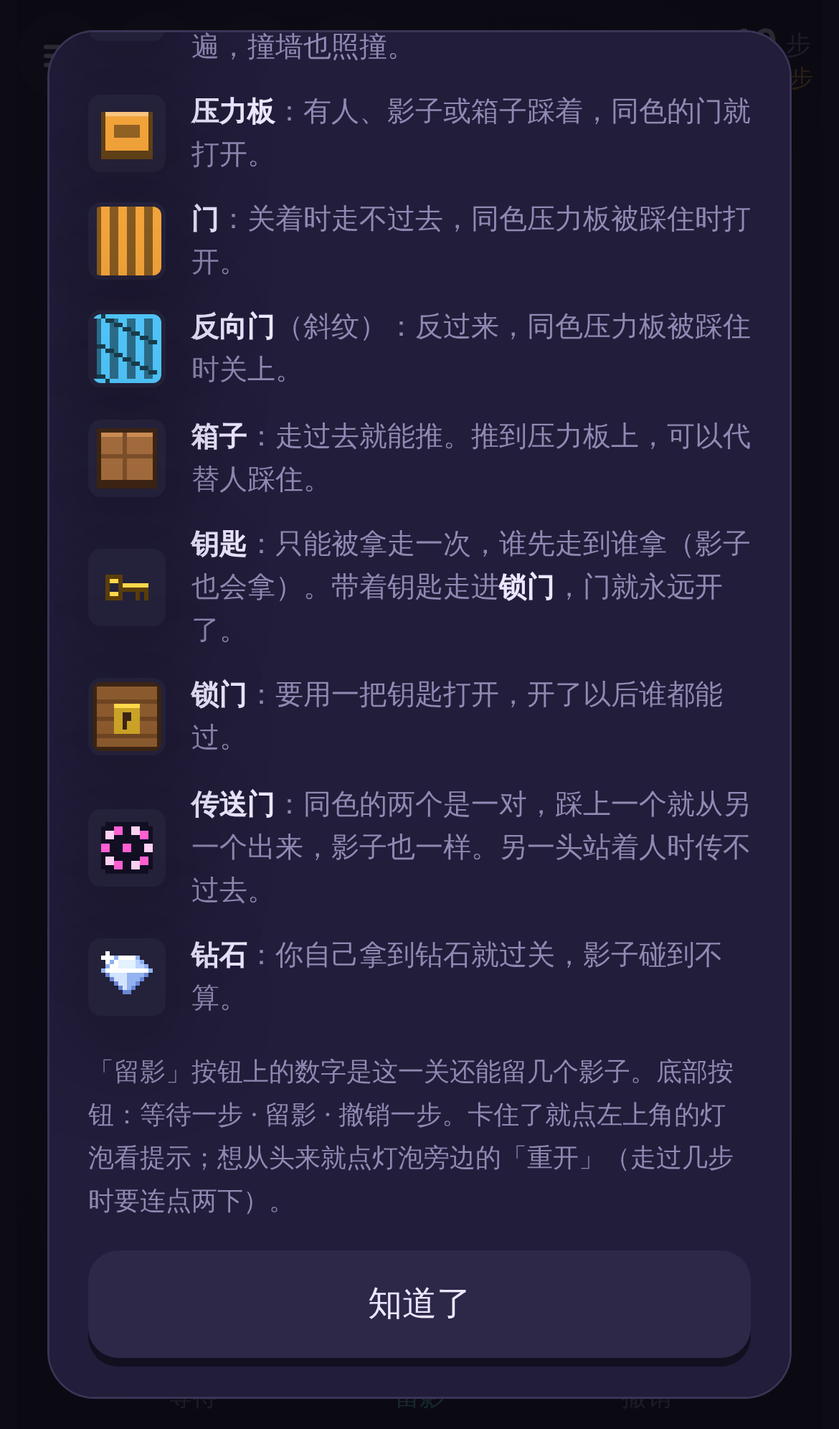
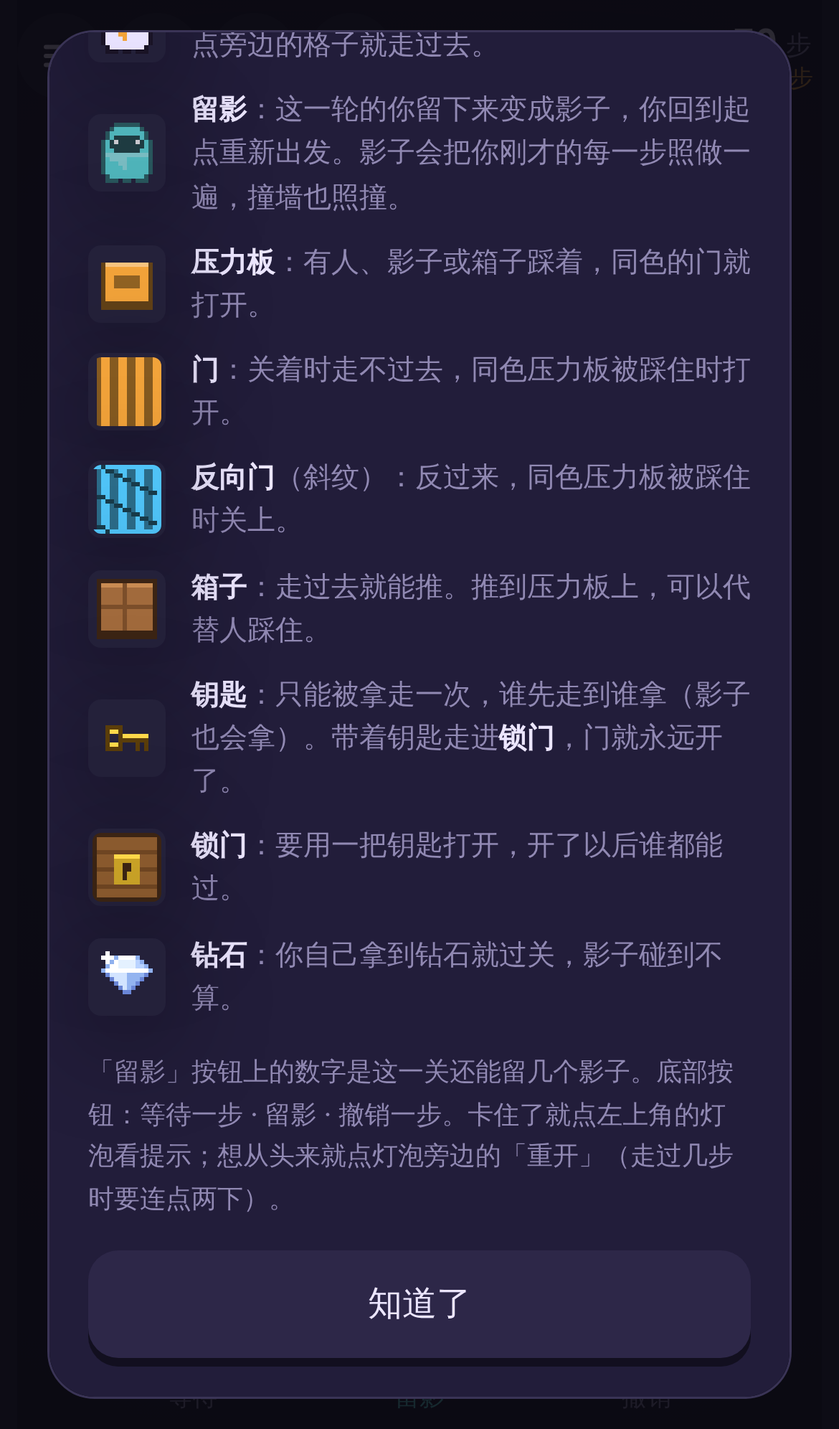
Remove portal levels, add key levels and reorder 21 levels by difficulty
1-3 teaching, 4-16 rising, 17-21 hard. New: 进出, 三人行, 偷运.

Claude-Session: https://claude.ai/code/session_016AuyL4w4c3u8YAF1PVzn5C

diff --git a/index.html b/index.html
@@ -200,7 +200,6 @@ canvas{display:block;image-rendering:pixelated;image-rendering:crisp-edges;filte
         <div class="hl"><canvas data-icon="box"></canvas><p><b>箱子</b>：走过去就能推。推到压力板上，可以代替人踩住。</p></div>
         <div class="hl"><canvas data-icon="key"></canvas><p><b>钥匙</b>：只能被拿走一次，谁先走到谁拿（影子也会拿）。带着钥匙走进<b>锁门</b>，门就永远开了。</p></div>
         <div class="hl"><canvas data-icon="lock"></canvas><p><b>锁门</b>：要用一把钥匙打开，开了以后谁都能过。</p></div>
-        <div class="hl"><canvas data-icon="portal"></canvas><p><b>传送门</b>：同色的两个是一对，踩上一个就从另一个出来，影子也一样。另一头站着人时传不过去。</p></div>
         <div class="hl"><canvas data-icon="exit"></canvas><p><b>钻石</b>：你自己拿到钻石就过关，影子碰到不算。</p></div>
       </div>
       <p class="hnote">「留影」按钮上的数字是这一关还能留几个影子。底部按钮：等待一步 · 留影 · 撤销一步。卡住了就点左上角的灯泡看提示；想从头来就点灯泡旁边的「重开」（走过几步时要连点两下）。</p>
@@ -287,63 +286,63 @@ const LEVELS=[
 {name:"回声",cap:1,hint:"站上压力板，然后按「留影」。留下的影子会替你一直站在那里。",
 map:["##########","#S...#####","#....#...#","#.a..A.E.#","#....#...#","##########"],
 sol:["DDR","DDRRRRRR"]},
-{name:"接力",cap:2,hint:"影子也能走过别的影子替它打开的门。",
-map:["############","#S...#.....#","#....A..b..#","#.a..#.....#","#....###B###","#....#.....#","######..E..#","############"],
-sol:["DDR","DRRRRRRR","DRRRRRRRDDDD"]},
 {name:"时机",cap:1,hint:"斜纹门在同色板被踩住时会关上。别让影子太早踩上去，点自己可以原地等一步。",
 map:["############","#....#.....#","#aS..1.....#","#....####A##","#....#...E.#","############"],
 sol:["WWWL","RRRRRRRDD"]},
-{name:"搬运",cap:1,hint:"箱子也能压住压力板。",
-map:["############","#S......####","#..o....A..#","#.......##B#","#.a...b.##E#","############"],
-sol:["RRRRRDDD","RRRDLULDDURRRRRRRRDD"]},
+{name:"接力",cap:2,hint:"影子也能走过别的影子替它打开的门。",
+map:["############","#S...#.....#","#....A..b..#","#.a..#.....#","#....###B###","#....#.....#","######..E..#","############"],
+sol:["DDR","DRRRRRRR","DRRRRRRRDDDD"]},
 {name:"你先走",cap:1,hint:"影子只会照着你的操作再做一遍。录的时候撞在关着的门上也没关系，下一轮门开了，他就走过去了。",
 map:["############","#S.....B..a#","#..b...#####","#......#...#","#......A.E.#","############"],
 sol:["RRRRRRRRRRRR","RRDWWWDDRRRRRR"]},
+{name:"搬运",cap:1,hint:"箱子也能压住压力板。",
+map:["############","#S......####","#..o....A..#","#.......##B#","#.a...b.##E#","############"],
+sol:["RRRRRDDD","RRRDLULDDURRRRRRRRDD"]},
+{name:"钥匙",cap:1,hint:"钥匙只能拿一次。拿着它走进锁门，门就一直开着了。",
+map:["###########","#S..a.....#","#.#########","#....A..k.#","###L#######","#.........#","#.......E.#","###########"],
+sol:["WWWRRR","DDRRRRRRRLLLLLDDDRRRRR"]},
 {name:"节拍",cap:1,hint:"一个影子，先后踩两块板。数一数你走到每扇门要几步。",
 map:["##################","#....#############","#.S..1..A..2..B.E#","#....#############","#a..b#############","##################"],
 sol:["DDWLWWRRWR","RRRRRRRRRRRRRR"]},
+{name:"抢先一步",cap:1,hint:"影子会比你先走到钥匙那儿。让过去的你晚点出发。",
+map:["##########","#S.k...a.#","#.########","#.....A.LE","##########"],
+sol:["WWWWWRRRRRR","RRLLDDRRRRRRRR"]},
+{name:"进出",cap:1,hint:"钥匙屋一边进、一边出。影子要先按住板，再在合适的时候松开。",
+map:["#############","#S..a.......#","#.###########","#.A.k.1....LE#","#############"],
+sol:["RRRWWWL","DDRRRRRRRRRRR"]},
 {name:"放手",cap:2,hint:"有时候，帮忙的方式是及时离开。",
 map:["#############","#S...#...#..#","#....A...1..#","#.a..#...#.b#","#....#...##B#","#....######E#","#############"],
 sol:["DDRWWU","DRRRRRRRRRRD","DRRRRRRRRRRDDD"]},
-{name:"交接班",cap:2,hint:"三块板，两个影子。总有一个要踩完这块再去踩那块。",
-map:["################","#S..#.....#....#","#...A..b..B....#","#.a.#.....#....#","#...#.######C###","#####c######.E.#","################"],
-sol:["DDR","DRRRRRRWWWLLDDD","DRRRRRRRRRRRDWDDR"]},
+{name:"钥匙在门里",cap:1,hint:"钥匙在一扇要有人踩着才开的门里。想清楚谁去拿钥匙、谁去踩板，踩完一块还能去踩另一块。",
+map:["##############","#S..b.#......#","#.....B...k..#","#.....########","###L##########","#a........A.E#","##############"],
+sol:["WWWRRRWWWWWWWWWWWWWWDDLDDLL","DRRRRRRRRRLLLLLDLLDDRRRRRRRRR"]},
 {name:"推过去",cap:1,hint:"箱子在你进不去的地方，让影子替你推。",
 map:["##############","#S..C..o....a#","#...#.b......#","#.c.##########","#...A...B..E.#","##############"],
 sol:["WRRRRRRRRRRDLLLLL","DDRWDRWWWWRRRRWWRRRR"]},
-{name:"开门的人",cap:2,hint:"先录去最远那块板的影子。斜纹门要赶在那块板被踩住之前穿过去。",
-map:["##############","#S....C.....a#","#.c...########","#.....#......#","#.....#..b...#","###1###......#","#.....A......#","#.....#####B##","##########.E.#","##############"],
-sol:["RRRRRRRRRRR","WWDRDDRDDRRRRUURR","WDDDRRDDRRRRRRRRDD"]},
-{name:"绕路",cap:3,hint:"反向门后面那块板，要趁同色板没人踩的时候进去。",
-map:["################","#S..#.....#....#","#...A..b..B..c.#","#.a.#.....#....#","########2##C####","#######.d##.D.E#","################"],
-sol:["DDR","DRRRRRRWWWDRDD","DRRRRRRRRRRRR","DRRRRRRRRRRDDDRRR"]},
+{name:"交接班",cap:2,hint:"三块板，两个影子。总有一个要踩完这块再去踩那块。",
+map:["################","#S..#.....#....#","#...A..b..B....#","#.a.#.....#....#","#...#.######C###","#####c######.E.#","################"],
+sol:["DDR","DRRRRRRWWWLLDDD","DRRRRRRRRRRRDWDDR"]},
 {name:"往返",cap:1,hint:"同一块板，要踩上、离开、再踩上。",
 map:["##################","#...S...##########","#.......A.1.B.A.E#","#a.....b##########","##################"],
 sol:["DDLLLRRRRRRLLLLLLUU","DRRRRWWRRRRWWWWRRRR"]},
 {name:"三件事",cap:1,hint:"影子要先替你按住一扇门，再按时松开，最后赶去另一块板。数清楚它每一段要走几步。",
 map:["################","#S..C...a.....b#","#...#..........#","#.c.############","#...A..1....B.E#","################"],
 sol:["WRRRRRRRWWRRRRRR","DDRUDDRRRRRRRRRRRR"]},
+{name:"开门的人",cap:2,hint:"先录去最远那块板的影子。斜纹门要赶在那块板被踩住之前穿过去。",
+map:["##############","#S....C.....a#","#.c...########","#.....#......#","#.....#..b...#","###1###......#","#.....A......#","#.....#####B##","##########.E.#","##############"],
+sol:["RRRRRRRRRRR","WWDRDDRDDRRRRUURR","WDDDRRDDRRRRRRRRDD"]},
+{name:"绕路",cap:3,hint:"反向门后面那块板，要趁同色板没人踩的时候进去。",
+map:["################","#S..#.....#....#","#...A..b..B..c.#","#.a.#.....#....#","########2##C####","#######.d##.D.E#","################"],
+sol:["DDR","DRRRRRRWWWDRDD","DRRRRRRRRRRRR","DRRRRRRRRRRDDDRRR"]},
 {name:"互为钥匙",cap:2,hint:"两个影子都要别人开门才进得去。从你自己能做的那一步开始。",
 map:["#################","#S..C..d.....b..#","#...#...........#","#.c.#############","#...D.....a.....#","#...#...........#","#...#############","#...A.....B...E.#","#################"],
 sol:["WRRRRRRWWWWWWRRRRRR","WDDDRRRRRRRRR","DDRUUDDDDDDRRRRRRRRRRRR"]},
-{name:"钥匙",cap:1,hint:"钥匙只能拿一次。拿着它走进锁门，门就一直开着了。",
-map:["###########","#S..a.....#","#.#########","#....A..k.#","###L#######","#.........#","#.......E.#","###########"],
-sol:["WWWRRR","DDRRRRRRRLLLLLDDDRRRRR"]},
-{name:"抢先一步",cap:1,hint:"影子会比你先走到钥匙那儿。让过去的你晚点出发。",
-map:["##########","#S.k...a.#","#.########","#.....A.LE","##########"],
-sol:["WWWWWRRRRRR","RRLLDDRRRRRRRR"]},
-{name:"钥匙在门里",cap:1,hint:"钥匙在一扇要有人踩着才开的门里。想清楚谁去拿钥匙、谁去踩板，踩完一块还能去踩另一块。",
-map:["##############","#S..b.#......#","#.....B...k..#","#.....########","###L##########","#a........A.E#","##############"],
-sol:["WWWRRRWWWWWWWWWWWWWWDDLDDLL","DRRRRRRRRRLLLLLDLLDDRRRRRRRRR"]},
-{name:"传送门",cap:1,hint:"踩上传送门，就会从同色的另一个门出来。影子也一样。",
-map:["###########","#S..p#..a.#","#...##.P..#","##A########","#........E#","###########"],
-sol:["RRRUR","WWDRDDRRRRRRR"]},
-{name:"两头跑",cap:1,hint:"守完这块板，从传送门过去守另一块。数好步数。",
-map:["###############","#S.....A...B.E#","#.#############","#..a.p#P.b#####","###############"],
-sol:["WWDDRRRRRR","RRRRRRRRRRRR"]},
-{name:"替身",cap:2,hint:"传送门那头是个出不去的小格子。可要是那头已经站着人，你踩上来就不会被传走。",
-map:["##############","#S...p....A.E#","#####.########","#P###a########","##############"],
-sol:["WWWRRRRDD","RRRR","RRRRRRRRRRR"]},
+{name:"三人行",cap:2,hint:"三个人都要进那间屋子一趟。谁先进去，谁就先拿到钥匙。",
+map:["###############","#S..C.k...b####","#.c.###########","#...L...a######","#...###########","#...A...B...E##","###############"],
+sol:["WDRUWWDUWRRWWRRRRRR","RRRRRLLLDDRRRRR","WWWWWWWWDRDDDRRRRRRRRRR"]},
+{name:"偷运",cap:1,hint:"箱子被锁在一间屋子里，可它该去的地方在另一头。",
+map:["################","#S..C.k...b#####","#.c.############","#...L.od.a######","#...#....#######","#...#############","#...A...B...D.E#","################"],
+sol:["RRRRRLLLDDRRDRRULLLWLULWUWWWWWWWWDDRRRRRRRWWWWWWLL","DRUWWDUWWWWWWWDDDRUULURRRRRRRLLLLLWLDDDDDRRRRRRRRRRR"]},
 {name:"告别",cap:3,hint:"最后一关。学过的都用上。",
 map:["######################","#S..C..o....a#########","#...#.b......#########","#.c.##################","#...A...B..2...C..D.E#","#################d####","######################"],
 sol:["DDR","RRRRRRRRRRDLLLLLWWWWU","DDDRRWWWWWWWWWWRRRRRRRRRRRRRRD","DDDRRWWWWWWWWWWRRRRRRRRRRRRRRRRR"]}

diff --git a/src/levels.js b/src/levels.js
@@ -2,63 +2,63 @@ const LEVELS=[
 {name:"回声",cap:1,hint:"站上压力板，然后按「留影」。留下的影子会替你一直站在那里。",
 map:["##########","#S...#####","#....#...#","#.a..A.E.#","#....#...#","##########"],
 sol:["DDR","DDRRRRRR"]},
-{name:"接力",cap:2,hint:"影子也能走过别的影子替它打开的门。",
-map:["############","#S...#.....#","#....A..b..#","#.a..#.....#","#....###B###","#....#.....#","######..E..#","############"],
-sol:["DDR","DRRRRRRR","DRRRRRRRDDDD"]},
 {name:"时机",cap:1,hint:"斜纹门在同色板被踩住时会关上。别让影子太早踩上去，点自己可以原地等一步。",
 map:["############","#....#.....#","#aS..1.....#","#....####A##","#....#...E.#","############"],
 sol:["WWWL","RRRRRRRDD"]},
-{name:"搬运",cap:1,hint:"箱子也能压住压力板。",
-map:["############","#S......####","#..o....A..#","#.......##B#","#.a...b.##E#","############"],
-sol:["RRRRRDDD","RRRDLULDDURRRRRRRRDD"]},
+{name:"接力",cap:2,hint:"影子也能走过别的影子替它打开的门。",
+map:["############","#S...#.....#","#....A..b..#","#.a..#.....#","#....###B###","#....#.....#","######..E..#","############"],
+sol:["DDR","DRRRRRRR","DRRRRRRRDDDD"]},
 {name:"你先走",cap:1,hint:"影子只会照着你的操作再做一遍。录的时候撞在关着的门上也没关系，下一轮门开了，他就走过去了。",
 map:["############","#S.....B..a#","#..b...#####","#......#...#","#......A.E.#","############"],
 sol:["RRRRRRRRRRRR","RRDWWWDDRRRRRR"]},
+{name:"搬运",cap:1,hint:"箱子也能压住压力板。",
+map:["############","#S......####","#..o....A..#","#.......##B#","#.a...b.##E#","############"],
+sol:["RRRRRDDD","RRRDLULDDURRRRRRRRDD"]},
+{name:"钥匙",cap:1,hint:"钥匙只能拿一次。拿着它走进锁门，门就一直开着了。",
+map:["###########","#S..a.....#","#.#########","#....A..k.#","###L#######","#.........#","#.......E.#","###########"],
+sol:["WWWRRR","DDRRRRRRRLLLLLDDDRRRRR"]},
 {name:"节拍",cap:1,hint:"一个影子，先后踩两块板。数一数你走到每扇门要几步。",
 map:["##################","#....#############","#.S..1..A..2..B.E#","#....#############","#a..b#############","##################"],
 sol:["DDWLWWRRWR","RRRRRRRRRRRRRR"]},
+{name:"抢先一步",cap:1,hint:"影子会比你先走到钥匙那儿。让过去的你晚点出发。",
+map:["##########","#S.k...a.#","#.########","#.....A.LE","##########"],
+sol:["WWWWWRRRRRR","RRLLDDRRRRRRRR"]},
+{name:"进出",cap:1,hint:"钥匙屋一边进、一边出。影子要先按住板，再在合适的时候松开。",
+map:["#############","#S..a.......#","#.###########","#.A.k.1....LE#","#############"],
+sol:["RRRWWWL","DDRRRRRRRRRRR"]},
 {name:"放手",cap:2,hint:"有时候，帮忙的方式是及时离开。",
 map:["#############","#S...#...#..#","#....A...1..#","#.a..#...#.b#","#....#...##B#","#....######E#","#############"],
 sol:["DDRWWU","DRRRRRRRRRRD","DRRRRRRRRRRDDD"]},
-{name:"交接班",cap:2,hint:"三块板，两个影子。总有一个要踩完这块再去踩那块。",
-map:["################","#S..#.....#....#","#...A..b..B....#","#.a.#.....#....#","#...#.######C###","#####c######.E.#","################"],
-sol:["DDR","DRRRRRRWWWLLDDD","DRRRRRRRRRRRDWDDR"]},
+{name:"钥匙在门里",cap:1,hint:"钥匙在一扇要有人踩着才开的门里。想清楚谁去拿钥匙、谁去踩板，踩完一块还能去踩另一块。",
+map:["##############","#S..b.#......#","#.....B...k..#","#.....########","###L##########","#a........A.E#","##############"],
+sol:["WWWRRRWWWWWWWWWWWWWWDDLDDLL","DRRRRRRRRRLLLLLDLLDDRRRRRRRRR"]},
 {name:"推过去",cap:1,hint:"箱子在你进不去的地方，让影子替你推。",
 map:["##############","#S..C..o....a#","#...#.b......#","#.c.##########","#...A...B..E.#","##############"],
 sol:["WRRRRRRRRRRDLLLLL","DDRWDRWWWWRRRRWWRRRR"]},
-{name:"开门的人",cap:2,hint:"先录去最远那块板的影子。斜纹门要赶在那块板被踩住之前穿过去。",
-map:["##############","#S....C.....a#","#.c...########","#.....#......#","#.....#..b...#","###1###......#","#.....A......#","#.....#####B##","##########.E.#","##############"],
-sol:["RRRRRRRRRRR","WWDRDDRDDRRRRUURR","WDDDRRDDRRRRRRRRDD"]},
-{name:"绕路",cap:3,hint:"反向门后面那块板，要趁同色板没人踩的时候进去。",
-map:["################","#S..#.....#....#","#...A..b..B..c.#","#.a.#.....#....#","########2##C####","#######.d##.D.E#","################"],
-sol:["DDR","DRRRRRRWWWDRDD","DRRRRRRRRRRRR","DRRRRRRRRRRDDDRRR"]},
+{name:"交接班",cap:2,hint:"三块板，两个影子。总有一个要踩完这块再去踩那块。",
+map:["################","#S..#.....#....#","#...A..b..B....#","#.a.#.....#....#","#...#.######C###","#####c######.E.#","################"],
+sol:["DDR","DRRRRRRWWWLLDDD","DRRRRRRRRRRRDWDDR"]},
 {name:"往返",cap:1,hint:"同一块板，要踩上、离开、再踩上。",
 map:["##################","#...S...##########","#.......A.1.B.A.E#","#a.....b##########","##################"],
 sol:["DDLLLRRRRRRLLLLLLUU","DRRRRWWRRRRWWWWRRRR"]},
 {name:"三件事",cap:1,hint:"影子要先替你按住一扇门，再按时松开，最后赶去另一块板。数清楚它每一段要走几步。",
 map:["################","#S..C...a.....b#","#...#..........#","#.c.############","#...A..1....B.E#","################"],
 sol:["WRRRRRRRWWRRRRRR","DDRUDDRRRRRRRRRRRR"]},
+{name:"开门的人",cap:2,hint:"先录去最远那块板的影子。斜纹门要赶在那块板被踩住之前穿过去。",
+map:["##############","#S....C.....a#","#.c...########","#.....#......#","#.....#..b...#","###1###......#","#.....A......#","#.....#####B##","##########.E.#","##############"],
+sol:["RRRRRRRRRRR","WWDRDDRDDRRRRUURR","WDDDRRDDRRRRRRRRDD"]},
+{name:"绕路",cap:3,hint:"反向门后面那块板，要趁同色板没人踩的时候进去。",
+map:["################","#S..#.....#....#","#...A..b..B..c.#","#.a.#.....#....#","########2##C####","#######.d##.D.E#","################"],
+sol:["DDR","DRRRRRRWWWDRDD","DRRRRRRRRRRRR","DRRRRRRRRRRDDDRRR"]},
 {name:"互为钥匙",cap:2,hint:"两个影子都要别人开门才进得去。从你自己能做的那一步开始。",
 map:["#################","#S..C..d.....b..#","#...#...........#","#.c.#############","#...D.....a.....#","#...#...........#","#...#############","#...A.....B...E.#","#################"],
 sol:["WRRRRRRWWWWWWRRRRRR","WDDDRRRRRRRRR","DDRUUDDDDDDRRRRRRRRRRRR"]},
-{name:"钥匙",cap:1,hint:"钥匙只能拿一次。拿着它走进锁门，门就一直开着了。",
-map:["###########","#S..a.....#","#.#########","#....A..k.#","###L#######","#.........#","#.......E.#","###########"],
-sol:["WWWRRR","DDRRRRRRRLLLLLDDDRRRRR"]},
-{name:"抢先一步",cap:1,hint:"影子会比你先走到钥匙那儿。让过去的你晚点出发。",
-map:["##########","#S.k...a.#","#.########","#.....A.LE","##########"],
-sol:["WWWWWRRRRRR","RRLLDDRRRRRRRR"]},
-{name:"钥匙在门里",cap:1,hint:"钥匙在一扇要有人踩着才开的门里。想清楚谁去拿钥匙、谁去踩板，踩完一块还能去踩另一块。",
-map:["##############","#S..b.#......#","#.....B...k..#","#.....########","###L##########","#a........A.E#","##############"],
-sol:["WWWRRRWWWWWWWWWWWWWWDDLDDLL","DRRRRRRRRRLLLLLDLLDDRRRRRRRRR"]},
-{name:"传送门",cap:1,hint:"踩上传送门，就会从同色的另一个门出来。影子也一样。",
-map:["###########","#S..p#..a.#","#...##.P..#","##A########","#........E#","###########"],
-sol:["RRRUR","WWDRDDRRRRRRR"]},
-{name:"两头跑",cap:1,hint:"守完这块板，从传送门过去守另一块。数好步数。",
-map:["###############","#S.....A...B.E#","#.#############","#..a.p#P.b#####","###############"],
-sol:["WWDDRRRRRR","RRRRRRRRRRRR"]},
-{name:"替身",cap:2,hint:"传送门那头是个出不去的小格子。可要是那头已经站着人，你踩上来就不会被传走。",
-map:["##############","#S...p....A.E#","#####.########","#P###a########","##############"],
-sol:["WWWRRRRDD","RRRR","RRRRRRRRRRR"]},
+{name:"三人行",cap:2,hint:"三个人都要进那间屋子一趟。谁先进去，谁就先拿到钥匙。",
+map:["###############","#S..C.k...b####","#.c.###########","#...L...a######","#...###########","#...A...B...E##","###############"],
+sol:["WDRUWWDUWRRWWRRRRRR","RRRRRLLLDDRRRRR","WWWWWWWWDRDDDRRRRRRRRRR"]},
+{name:"偷运",cap:1,hint:"箱子被锁在一间屋子里，可它该去的地方在另一头。",
+map:["################","#S..C.k...b#####","#.c.############","#...L.od.a######","#...#....#######","#...#############","#...A...B...D.E#","################"],
+sol:["RRRRRLLLDDRRDRRULLLWLULWUWWWWWWWWDDRRRRRRRWWWWWWLL","DRUWWDUWWWWWWWDDDRUULURRRRRRRLLLLLWLDDDDDRRRRRRRRRRR"]},
 {name:"告别",cap:3,hint:"最后一关。学过的都用上。",
 map:["######################","#S..C..o....a#########","#...#.b......#########","#.c.##################","#...A...B..2...C..D.E#","#################d####","######################"],
 sol:["DDR","RRRRRRRRRRDLLLLLWWWWU","DDDRRWWWWWWWWWWRRRRRRRRRRRRRRD","DDDRRWWWWWWWWWWRRRRRRRRRRRRRRRRR"]}

diff --git a/src/game.src.html b/src/game.src.html
@@ -189,7 +189,6 @@ canvas{display:block;image-rendering:pixelated;image-rendering:crisp-edges;filte
         <div class="hl"><canvas data-icon="box"></canvas><p><b>箱子</b>：走过去就能推。推到压力板上，可以代替人踩住。</p></div>
         <div class="hl"><canvas data-icon="key"></canvas><p><b>钥匙</b>：只能被拿走一次，谁先走到谁拿（影子也会拿）。带着钥匙走进<b>锁门</b>，门就永远开了。</p></div>
         <div class="hl"><canvas data-icon="lock"></canvas><p><b>锁门</b>：要用一把钥匙打开，开了以后谁都能过。</p></div>
-        <div class="hl"><canvas data-icon="portal"></canvas><p><b>传送门</b>：同色的两个是一对，踩上一个就从另一个出来，影子也一样。另一头站着人时传不过去。</p></div>
         <div class="hl"><canvas data-icon="exit"></canvas><p><b>钻石</b>：你自己拿到钻石就过关，影子碰到不算。</p></div>
       </div>
       <p class="hnote">「留影」按钮上的数字是这一关还能留几个影子。底部按钮：等待一步 · 留影 · 撤销一步。卡住了就点左上角的灯泡看提示；想从头来就点灯泡旁边的「重开」（走过几步时要连点两下）。</p>

diff --git a/docs/关卡技巧.md b/docs/关卡技巧.md
@@ -29,38 +29,38 @@
 | T12 | 同行 | 几个影子和你走同一条路一起过门，靠时机把队伍凑齐。 |
 | T13 | 抢钥匙 | 钥匙只能拿一次，谁先到谁拿。影子按原样重放，会比你先到；要拿钥匙，就得让过去的你晚点出发或绕开。 |
 | T14 | 永久开门 | 带钥匙的人（影子也行）打开锁门后，门一直开着，不用再有人守。等于省下一个守板的影子。 |
-| T15 | 传送 | 踩上传送门就从同色的另一个出来，影子也会。可以去走路到不了的地方，或者瞬间换到另一块板。 |
-| T16 | 堵传送门 | 传送门另一头站着人时，踩上来不会被传走。让一个影子先进死胡同把那头堵住，后面的人就能直接走过去。 |
+| T15 | 抢屋子 | 几个人都要进同一间锁着的屋子，谁先进谁拿钥匙；进出的先后顺序决定谁替谁开门。 |
+| T16 | 运箱出屋 | 箱子先被锁在屋里，要先开锁、再把箱子推出来送到另一块板上，同时还要有人守门。 |
 
 ## 三、逐关技巧
 
+难度曲线（2026-11-19 重排）：**1–3 教学**，只教一个概念；**4–16 逐关加难**，第 10 关起开始要想录制顺序和时机；**17–21 是难关**，每关都要组合 4 种以上技巧，并且影子名额都压到求解器证明的最少数。钥匙穿插在 6、8、9、11、19、20 关。
+
 | 关 | 名称 | 影子 | 用到的技巧 | 这一关想教/考什么 |
 |---|---|---|---|---|
-| 1 | 回声 | 1 | T1 | 认识「留影」：影子替你守住压力板。 |
-| 2 | 接力 | 2 | T1 T2 | 影子也能走过别的影子打开的门。 |
-| 3 | 时机 | 1 | T3 T4 | 认识反向门和原地等待：影子不能太早踩板。 |
-| 4 | 搬运 | 1 | T1 T5 | 箱子能代替影子守板。 |
-| 5 | 你先走 | 1 | T6 T7 | 核心概念：现在的你替过去的你开门，影子照着撞过门的按键走过去。 |
-| 6 | 节拍 | 1 | T3 T4 T9 | 一个影子要按节奏先后踩两块板。 |
-| 7 | 放手 | 2 | T2 T4 T8 T12 | 守板的影子要在大家过门后及时离开，让反向门打开。 |
-| 8 | 交接班 | 2 | T2 T8 T9 | 三块板两个影子，一个影子守完一块再去守另一块。 |
-| 9 | 推过去 | 1 | T5 T6 T7 T11 | 你开门让影子进去推箱，箱子再替你开门。 |
-| 10 | 开门的人 | 2 | T3 T4 T6 T9 T10 T12 | 先盲录去最远那块板的影子；第二个影子先替它守门，再赶在它站上板之前穿过反向门；你要跟着第二个影子一起穿过去。（2026-11-19 加难：加了一扇反向门，制造时间窗口。） |
-| 11 | 绕路 | 3 | T2 T4 T8 T9 | 守板的影子松手后，穿过反向门去守另一块板。 |
-| 12 | 往返 | 1 | T3 T4 T9 | 同一块板要踩上、离开、再踩上，影子在两块板之间来回跑。 |
-| 13 | 三件事 | 1 | T3 T4 T7 T8 T9 | 你先替影子开门；影子要按住板让你过普通门，再松手让反向门打开，然后赶去另一块板替你开最后一扇门。路上的顺序是「普通门在前、反向门在后」，所以影子必须先踩、再松、再跑，三段时间都要卡准。（2026-11-19 加难：普通门和反向门对调。） |
-| 14 | 互为钥匙 | 2 | T6 T7 T9 T10 | 两个影子各自都要别人开门才进得去，要从你自己能做的那一步解开死结。 |
-| 15 | 钥匙 | 1 | T1 T14 | 认识钥匙和锁门：影子守板，你进门拿钥匙，再回去开锁。 |
-| 16 | 抢先一步 | 1 | T1 T3 T13 | 影子要去的板就在钥匙后面，照直走会把钥匙拿走。得让它先等几步，你先去拿。 |
-| 17 | 钥匙在门里 | 1 | T7 T9 T14 | 钥匙在要有人踩着才开的门里；一个人守门、一个人拿钥匙开锁，守门的再穿过开好的锁门去守另一块板。 |
-| 18 | 传送门 | 1 | T1 T15 | 认识传送门：板在一个走路到不了的房间里，让影子传送过去守着。 |
-| 19 | 两头跑 | 1 | T3 T9 T15 | 一个影子先守第一块板，再踩传送门瞬间赶到第二块板。步数要正好对上。 |
-| 20 | 替身 | 2 | T1 T10 T16 | 传送门那头是出不去的小格子。一个影子进去当替身堵住它，另一个影子和你才能走过传送门。 |
-| 21 | 告别 | 3 | T2 T4 T5 T7 T8 T9 T11 T12 | 综合关：箱子、反向门、为过去开门、松手、交接全都用上。 |
+| 1 | 回声 | 1 | T1 | 教学：「留影」后影子替你守住压力板。 |
+| 2 | 时机 | 1 | T3 T4 | 教学：反向门和原地等待，影子不能太早踩板。 |
+| 3 | 接力 | 2 | T1 T2 | 教学：影子也能走过别的影子打开的门。 |
+| 4 | 你先走 | 1 | T6 T7 | 核心概念：现在的你替过去的你开门，影子照着撞过门的按键走过去。 |
+| 5 | 搬运 | 1 | T1 T5 | 箱子能代替影子守板。 |
+| 6 | 钥匙 | 1 | T1 T14 | 认识钥匙和锁门：影子守板，你进门拿钥匙，再回去开锁。 |
+| 7 | 节拍 | 1 | T3 T4 T9 | 一个影子要按节奏先后踩两块板。 |
+| 8 | 抢先一步 | 1 | T1 T3 T13 | 影子照直走会先拿走钥匙，得让它等几步，你先去拿。 |
+| 9 | 进出 | 1 | T3 T8 T13 T14 | 影子先守门让你进钥匙屋，再按时松手；拿钥匙和开锁的顺序要对上。 |
+| 10 | 放手 | 2 | T2 T4 T8 T12 | 守板的影子要在大家过门后及时离开，让反向门打开。 |
+| 11 | 钥匙在门里 | 1 | T7 T9 T14 | 一个人守门、一个人拿钥匙开锁，守门的再穿过开好的锁门。 |
+| 12 | 推过去 | 1 | T5 T6 T7 T11 | 你开门让影子进去推箱，箱子再替你开门。 |
+| 13 | 交接班 | 2 | T2 T8 T9 | 三块板两个影子，一个影子守完一块再去守另一块。 |
+| 14 | 往返 | 1 | T3 T4 T9 | 同一块板要踩上、离开、再踩上。 |
+| 15 | 三件事 | 1 | T3 T4 T7 T8 T9 | 影子按住板让你过门，再松手让反向门打开，然后赶去另一块板。 |
+| 16 | 开门的人 | 2 | T3 T4 T6 T9 T10 T12 | 先盲录去最远那块板的影子；第二个影子替它守门，再赶在它站上板之前穿过反向门。 |
+| 17 | 绕路 | 3 | T2 T4 T8 T9 | 难关：守板的影子松手后穿过反向门去守另一块板，三个影子的时机要一起对。 |
+| 18 | 互为钥匙 | 2 | T6 T7 T9 T10 | 难关：两个影子都要别人开门才进得去，要从你自己能做的那一步解开死结。 |
+| 19 | 三人行 | 2 | T3 T9 T10 T13 T15 | 难关：三个人都要进锁着的屋子一趟，谁先进谁拿钥匙，进出顺序决定谁替谁守门。 |
+| 20 | 偷运 | 1 | T3 T5 T9 T11 T14 T16 | 难关：影子开锁、把屋里的箱子推出去压板，再先后守两块板，只有一个影子。 |
+| 21 | 告别 | 3 | T2 T4 T5 T7 T8 T9 T11 T12 | 终关：箱子、反向门、为过去开门、松手、交接全都用上。 |
 
-第 15–20 关是 2026-11-19 加的两种新机制（钥匙、传送门），每种先教学、再和压力板/门组合。
-
-已删除的旧关卡：「游行」（3 个影子单纯排队，只有 T2）和「我们」（4 个影子同行，T2 T8 T12）。这两关都只是把影子数量堆上去，没有新想法，所以不放了。
+已删除的旧关卡：「游行」「我们」（只考排队执行，不考思路）；传送门三关「传送门」「两头跑」「替身」（2026-11-19 Ian 试玩后决定传送门暂不做，引擎里还保留代码，关卡里不用）。
 
 ## 四、出新关的经验
 

diff --git a/README.md b/README.md
@@ -2,13 +2,13 @@
 
 2D 像素风解谜（和过去的自己合作），单个 `index.html`，浏览器直接打开就能玩。按手机解谜小游戏的习惯排版：棋盘占满屏幕，在棋盘上滑动移动、点自己原地等一步，底部一排圆形按钮（等待 · 留影 · 撤销），右上角是帮助和提示，顶部只有菜单、帮助和一个小小的关卡号，关卡名进关时在棋盘上淡入淡出，剩余影子数显示在「留影」按钮的角标上，右上角留空给微信胶囊。横向很长的关卡在竖屏上会自动转成竖向。电脑上显示成手机大小，也能用键盘。
 
-**玩法**：在棋盘上滑动移动，点自己原地等一步。点「留影」，这一轮的你留下来变成影子，你回到起点重新出发；影子会原样重复你的每一步操作（撞墙也照撞）。踩住压力板开同色门；斜纹的是反向门，同色板被踩住时反而关上。钥匙只能被拿一次（影子也会抢），带着它走进锁门，门就永久打开；同色传送门成对，踩上一个就从另一个出来，另一头有人时传不过去。每关有影子名额上限。底部按钮有等待和撤销一步；右上角灯泡是提示（淡淡浮出一句提示，可演示解法），左上角「?」是规则说明；顶部有独立的重开按钮，菜单里可以分别开关音乐和音效（背景音乐是 WebAudio 现场合成的 16 小节 C 大调循环曲，带鼓点和回声）。通关有星级结算（总步数不超过参考解即三星）。界面只面向手机；代码里保留了键盘操作，方便在电脑上调试。
+**玩法**：在棋盘上滑动移动，点自己原地等一步。点「留影」，这一轮的你留下来变成影子，你回到起点重新出发；影子会原样重复你的每一步操作（撞墙也照撞）。踩住压力板开同色门；斜纹的是反向门，同色板被踩住时反而关上。钥匙只能被拿一次（影子也会抢），带着它走进锁门，门就永久打开。每关有影子名额上限。底部按钮有等待和撤销一步；右上角灯泡是提示（淡淡浮出一句提示，可演示解法），左上角「?」是规则说明；顶部有独立的重开按钮，菜单里可以分别开关音乐和音效（背景音乐是 WebAudio 现场合成的 16 小节 C 大调循环曲，带鼓点和回声）。通关有星级结算（总步数不超过参考解即三星）。界面只面向手机；代码里保留了键盘操作，方便在电脑上调试。
 
-**21 关**：回声(1) · 接力(2) · 时机(1) · 搬运(1+箱子) · 你先走(1) · 节拍(1) · 放手(2) · 交接班(2) · 推过去(1+箱子) · 开门的人(2) · 绕路(3) · 往返(1) · 三件事(1) · 互为钥匙(2) · 钥匙(1) · 抢先一步(1) · 钥匙在门里(1) · 传送门(1) · 两头跑(1) · 替身(2) · 告别(3)。括号里是影子名额。前 5 关是教学关，之后逐步变难。每关用到的技巧见 [docs/关卡技巧.md](docs/关卡技巧.md)。
+**21 关**：1–3 教学，4–16 逐关加难，17–21 是难关。回声 · 时机 · 接力 · 你先走 · 搬运 · 钥匙 · 节拍 · 抢先一步 · 进出 · 放手 · 钥匙在门里 · 推过去 · 交接班 · 往返 · 三件事 · 开门的人 · 绕路 · 互为钥匙 · 三人行 · 偷运 · 告别。
 
 ## 验证
 - `node test/test.js`：用引擎跑每关的参考解，确认通关。
 - `node test/solver.js [关号]`：BFS 求解器，证明「名额减一」时无解（影子的按键可以任选，所以 k 个影子 = k+1 个可自由操控的角色）。第 11、15 关角色多、状态太多，用 `test/solver_sym.js` 的对称剪枝版本验证。
 - `node test/phone.test.js`：模拟 iPhone 通关全部关卡、测试中途转屏，并生成手机截图（screenshots/m*.png）。
-- `node test/play.test.js`：Playwright 打开真页面，走真实输入路径通关全部 14 关，并用键盘实玩第 1 关。
+- `node test/play.test.js`：Playwright 打开真页面，走真实输入路径通关全部关卡，并用键盘实玩第 1 关。
 - 改关卡/引擎后在 `src/` 里跑 `python3 build.py` 重新生成 `index.html`。
